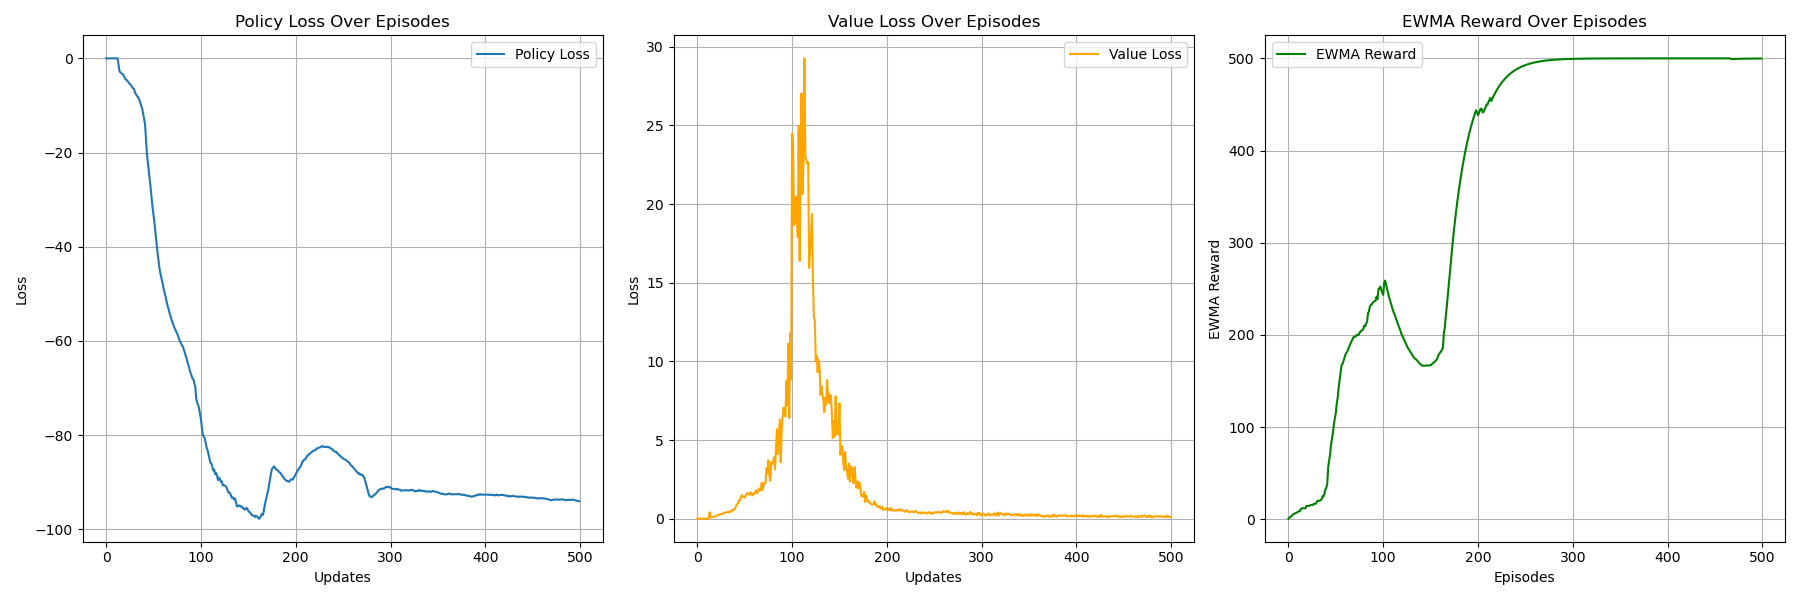
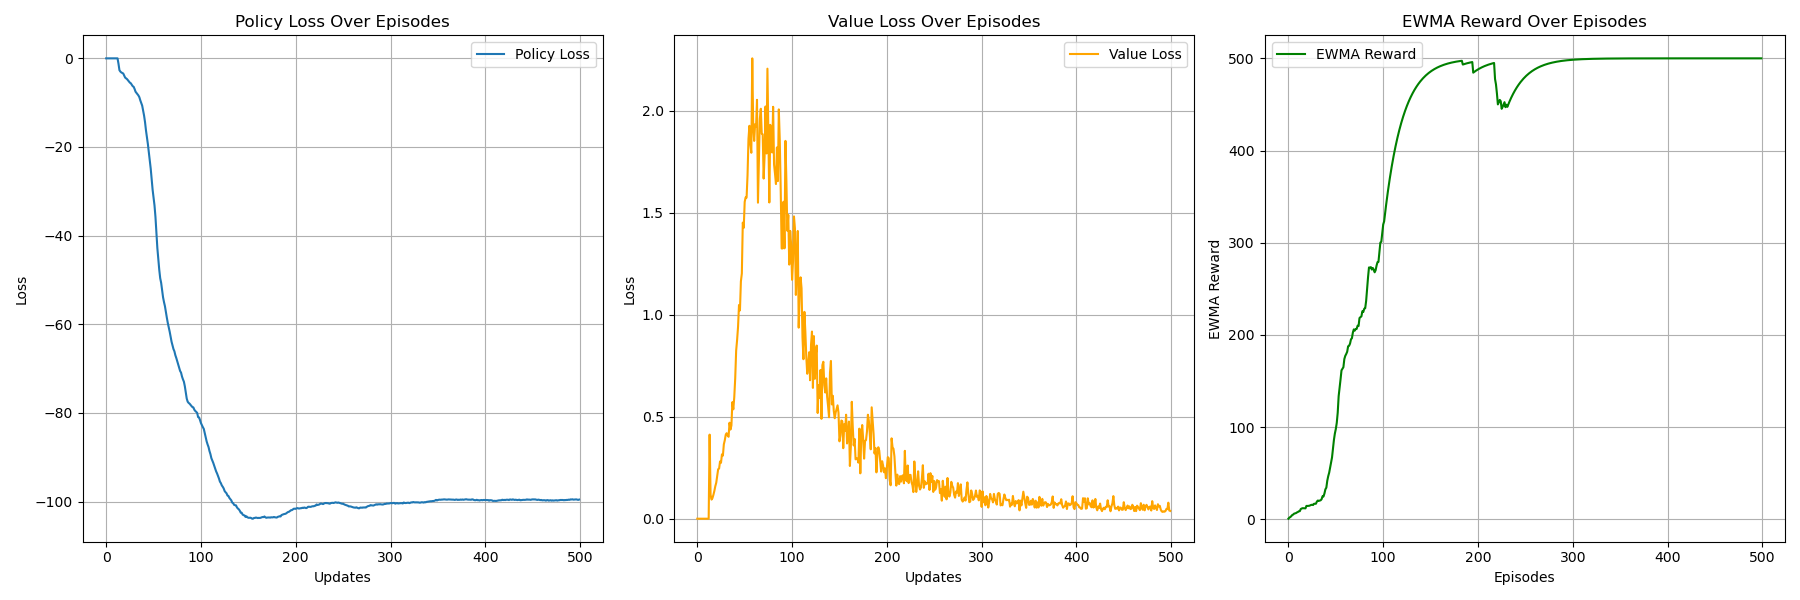
fix target entropy of SAC

diff --git a/SAC/sac_adv.py b/SAC/sac_adv.py
@@ -302,7 +302,7 @@ policy_lr = 3e-4
 alpha_lr  = 3e-4
 
 replay_buffer_size = 1e6
-
+target_entropy = -1.*action_dim
 max_episodes  = 500
 max_steps = 200  # Pendulum needs 150 steps per episode to learn well
 frame_idx   = 0
@@ -359,7 +359,7 @@ if __name__ == '__main__':
             
             if len(replay_buffer) > batch_size:
                 batch = replay_buffer.sample(batch_size)
-                ploss, qloss=advSACAgent.update(batch, reward_scale, auto_alpha=AUTO_ALPHA, target_entropy=-1.*action_dim)
+                ploss, qloss=advSACAgent.update(batch, reward_scale, auto_alpha=AUTO_ALPHA, target_entropy=target_entropy)
 
                 episode_p_loss = episode_p_loss+ploss.item()
                 episode_q_loss = episode_q_loss + qloss.item()*0.5

diff --git a/SAC/sac_adv_discrete.py b/SAC/sac_adv_discrete.py
@@ -220,9 +220,9 @@ AUTO_ENTROPY=True
 DETERMINISTIC=False
 hidden_dim = 512
 replay_buffer_size = 1e6
-target_entropy = -1.*action_dim
-# target_entropy = 0.98 * -np.log(1 / action_dim)
-
+#target_entropy = -1.*action_dim
+# use 0.6 instead of suggested 0.98 for better effect
+target_entropy = 0.6 * -np.log(1 / action_dim)
 q_losses = []
 p_losses = []
 all_rewards = []

diff --git a/SAC/README.md b/SAC/README.md
@@ -73,6 +73,13 @@
 * soft_tau   = 1e-2
 * target entropy for advanced SAC version: -2
   * in continuous, entropy can be negative since PDF might larger than 1
+    * $\Large -\int \pi_t(a_t|s_t)\log\pi_t(a_t|s_t)d{a_t}$ which might be negative since $\Large \log\pi_t(a_t|s_t)$ might be positive
+    * from paper suggestion, $\Large -1*\dim(a)$
+  * in discrete, entropy always larger than zero since PMF smaller than 1
+    * $\Large -\Sigma_{a_t}\pi_t(a_t|s_t)\log\pi_t(a_t|s_t)$
+    * hence, set target entropy larger than zero
+      * from paper suggestion, $\Large 0.98*(-1*\log(1/\dim(a)))$ which is positive since $\Large \log\pi_t(a_t|s_t)$ must be negative
+      * however, for better effect, choosing 0.6
 * value learning rate = 3e-4
 * soft_q learning rate = 3e-4
 * policy learning rate = 3e-4
